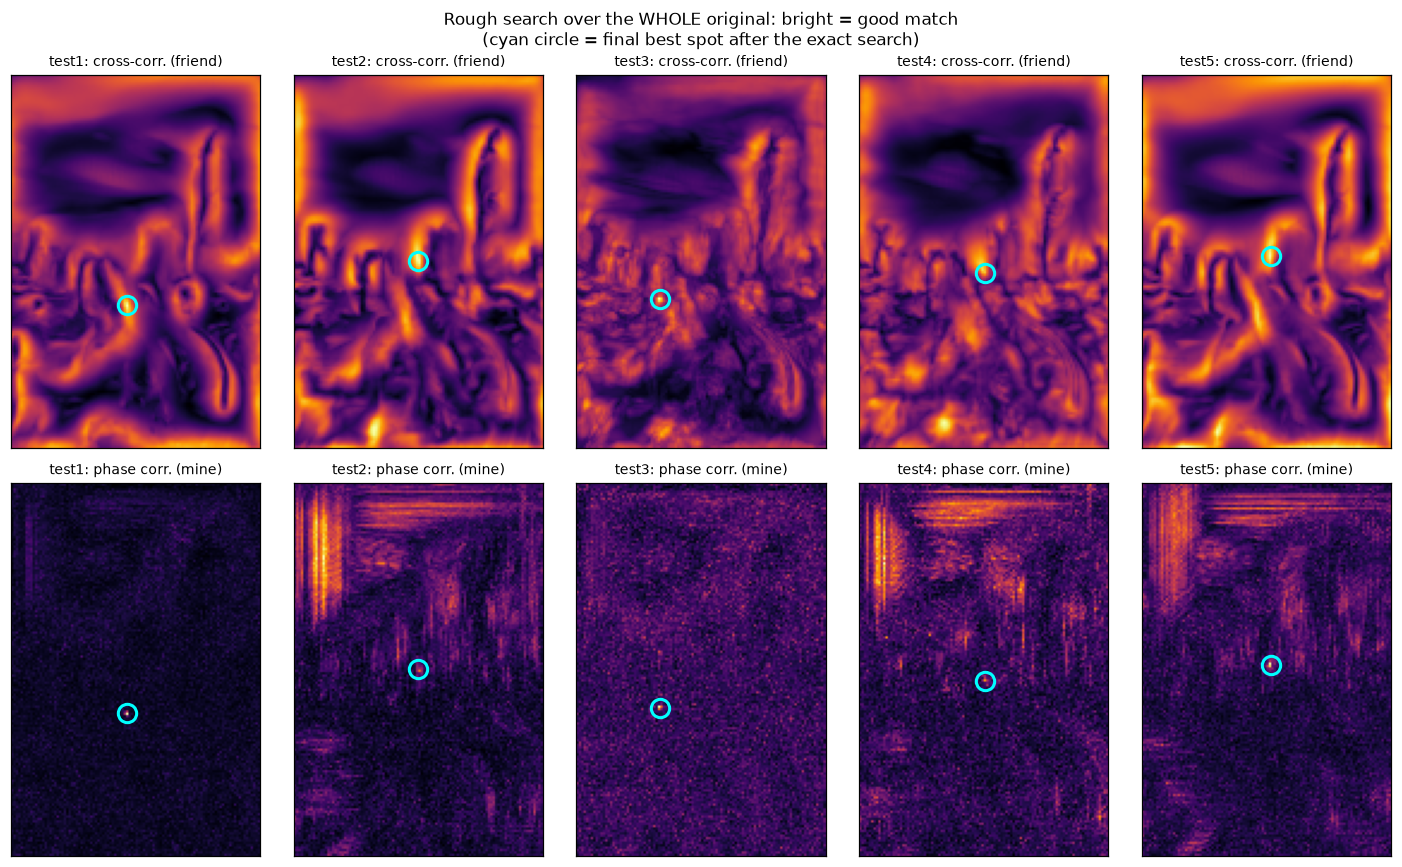
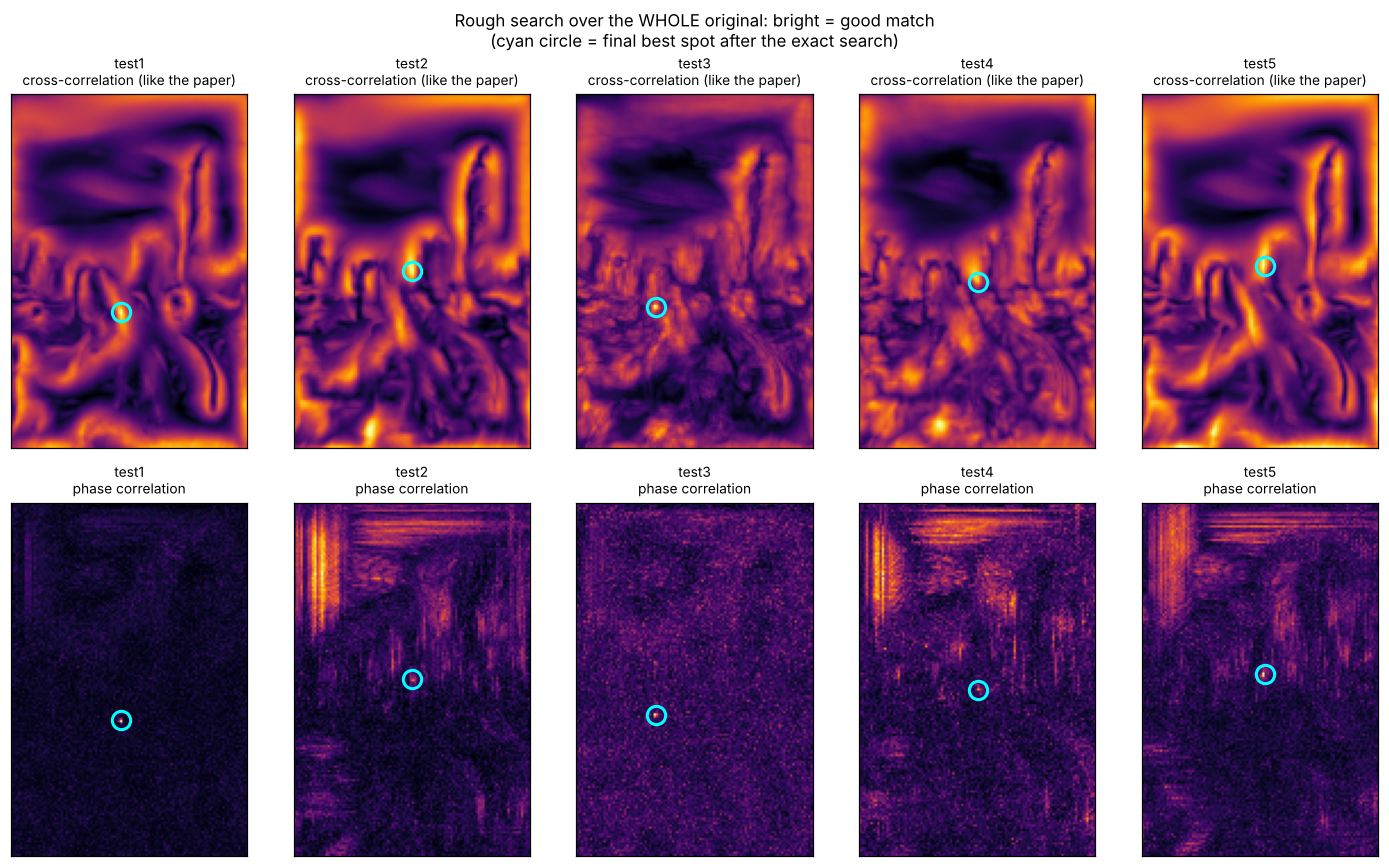
Step 4 picture: clearer labels (cross-correlation like the paper / phase correlation)
Claude-Session: https://claude.ai/code/session_01RXpx79UWUGNuF9rDP5hVa9

diff --git a/step4_find_shift.py b/step4_find_shift.py
@@ -363,12 +363,12 @@ def main():
     fig, axes = plt.subplots(2, n, figsize=(2.6 * n, 8))
     ext = [0, w, h, 0]
     for i, (t, r) in enumerate(maps):
-        for j, (key, label) in enumerate([("cross_map", "cross-corr. (friend)"),
-                                          ("phase_map", "phase corr. (mine)")]):
+        for j, (key, label) in enumerate([("cross_map", "cross-correlation (like the paper)"),
+                                          ("phase_map", "phase correlation")]):
             ax = axes[j, i]
             ax.imshow(r[key], cmap="inferno", extent=ext)
             ax.plot(r["spot"][0], r["spot"][1], "o", mfc="none", mec="cyan", ms=12, mew=2)
-            ax.set_title(f"{t['name']}: {label}", fontsize=9)
+            ax.set_title(f"{t['name']}\n{label}", fontsize=9)
             ax.set_xticks([])
             ax.set_yticks([])
     fig.suptitle("Rough search over the WHOLE original: bright = good match\n"
